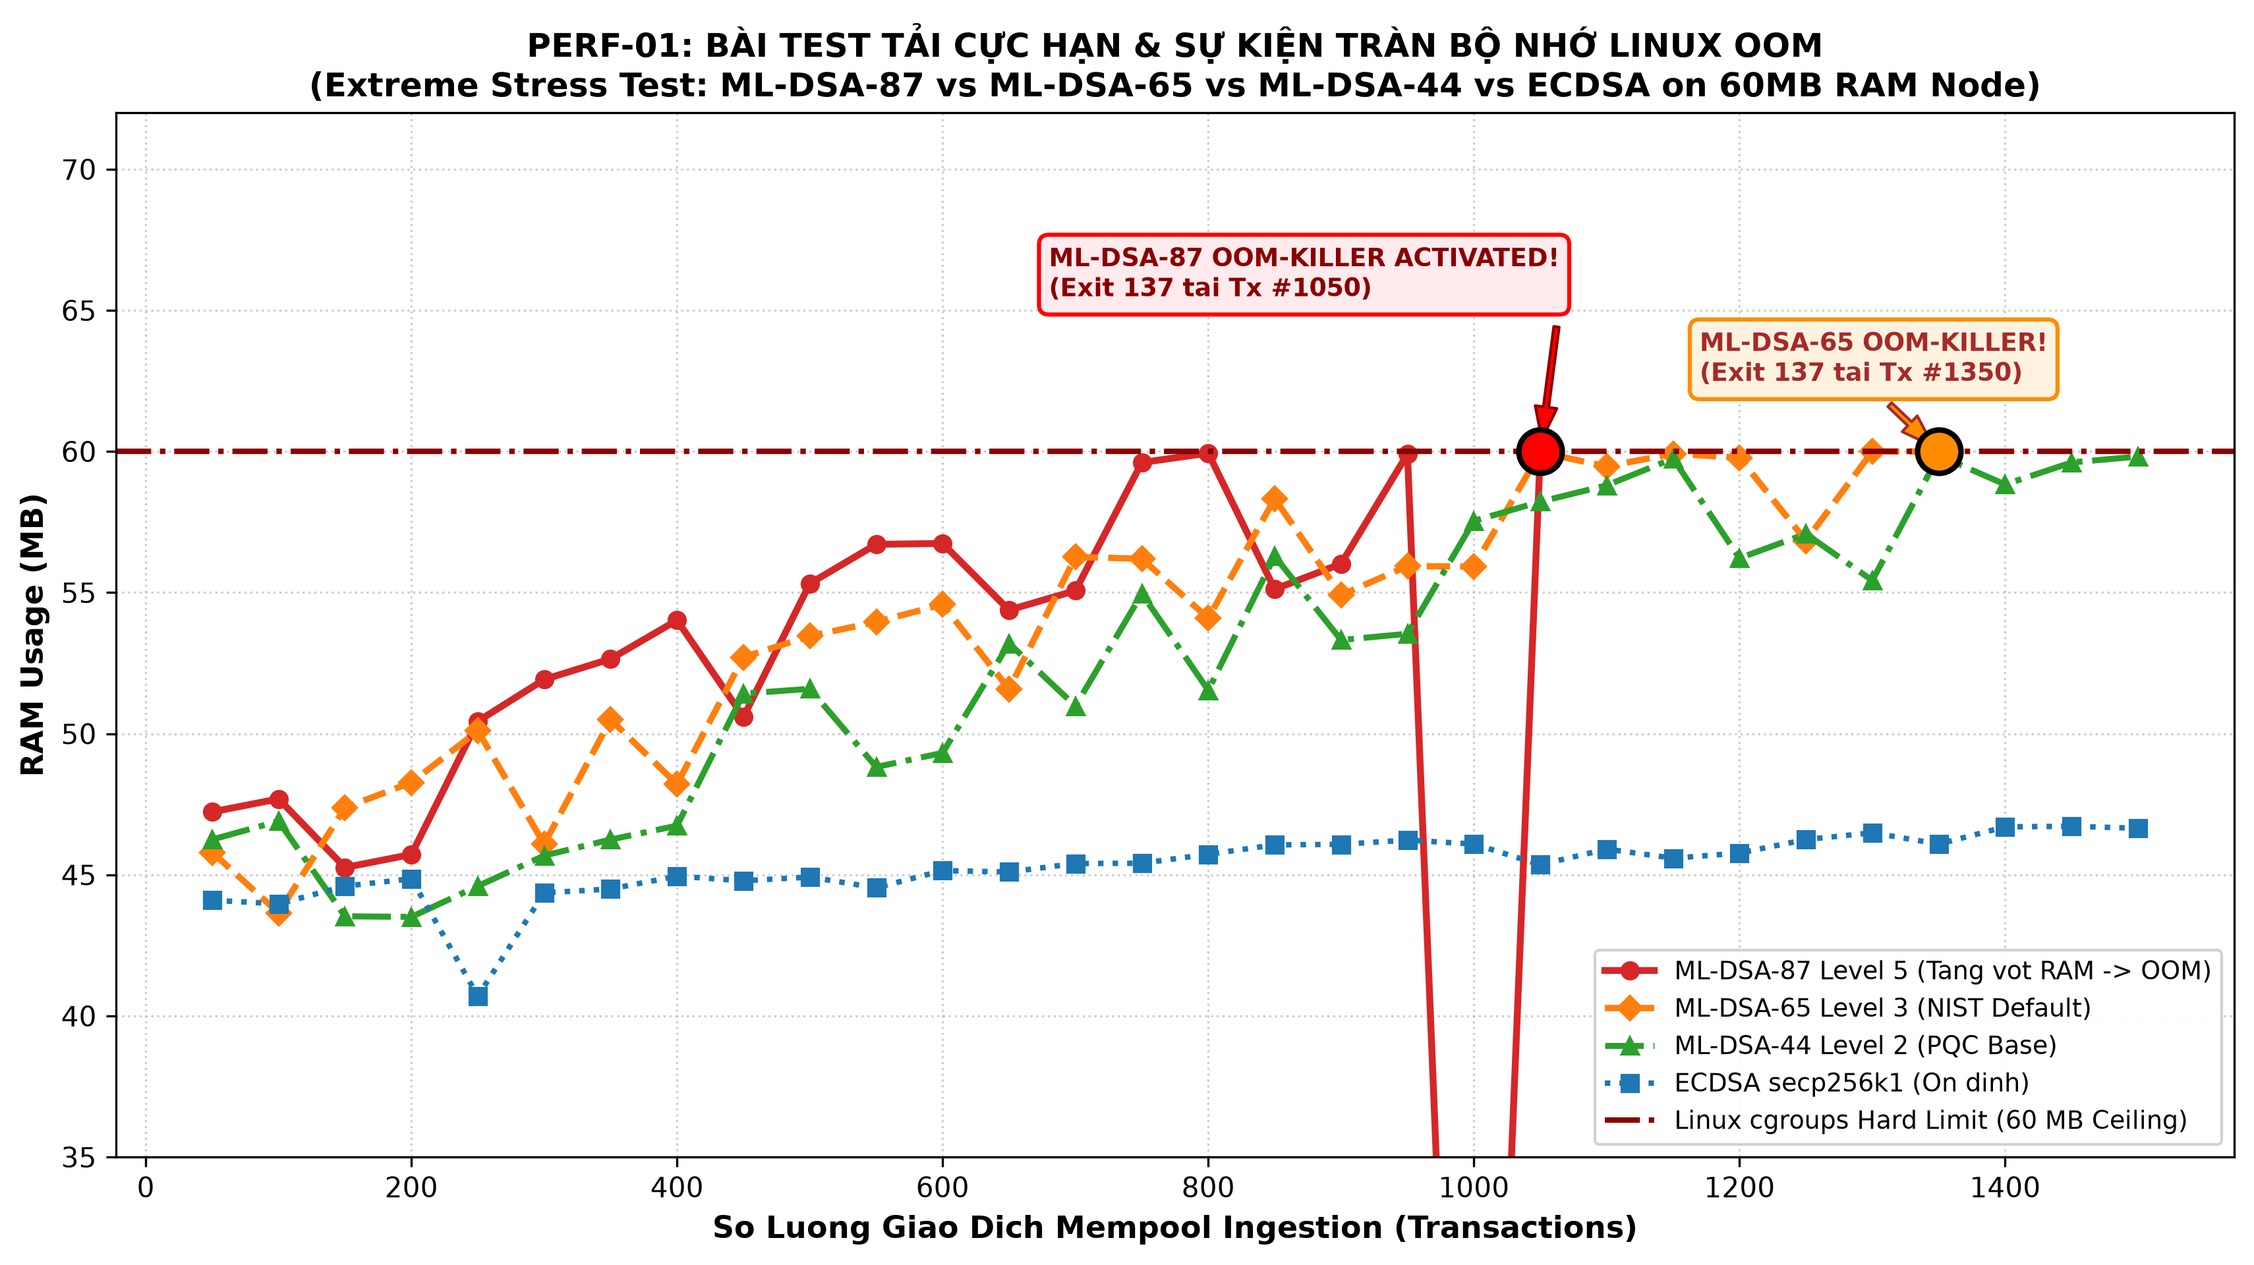
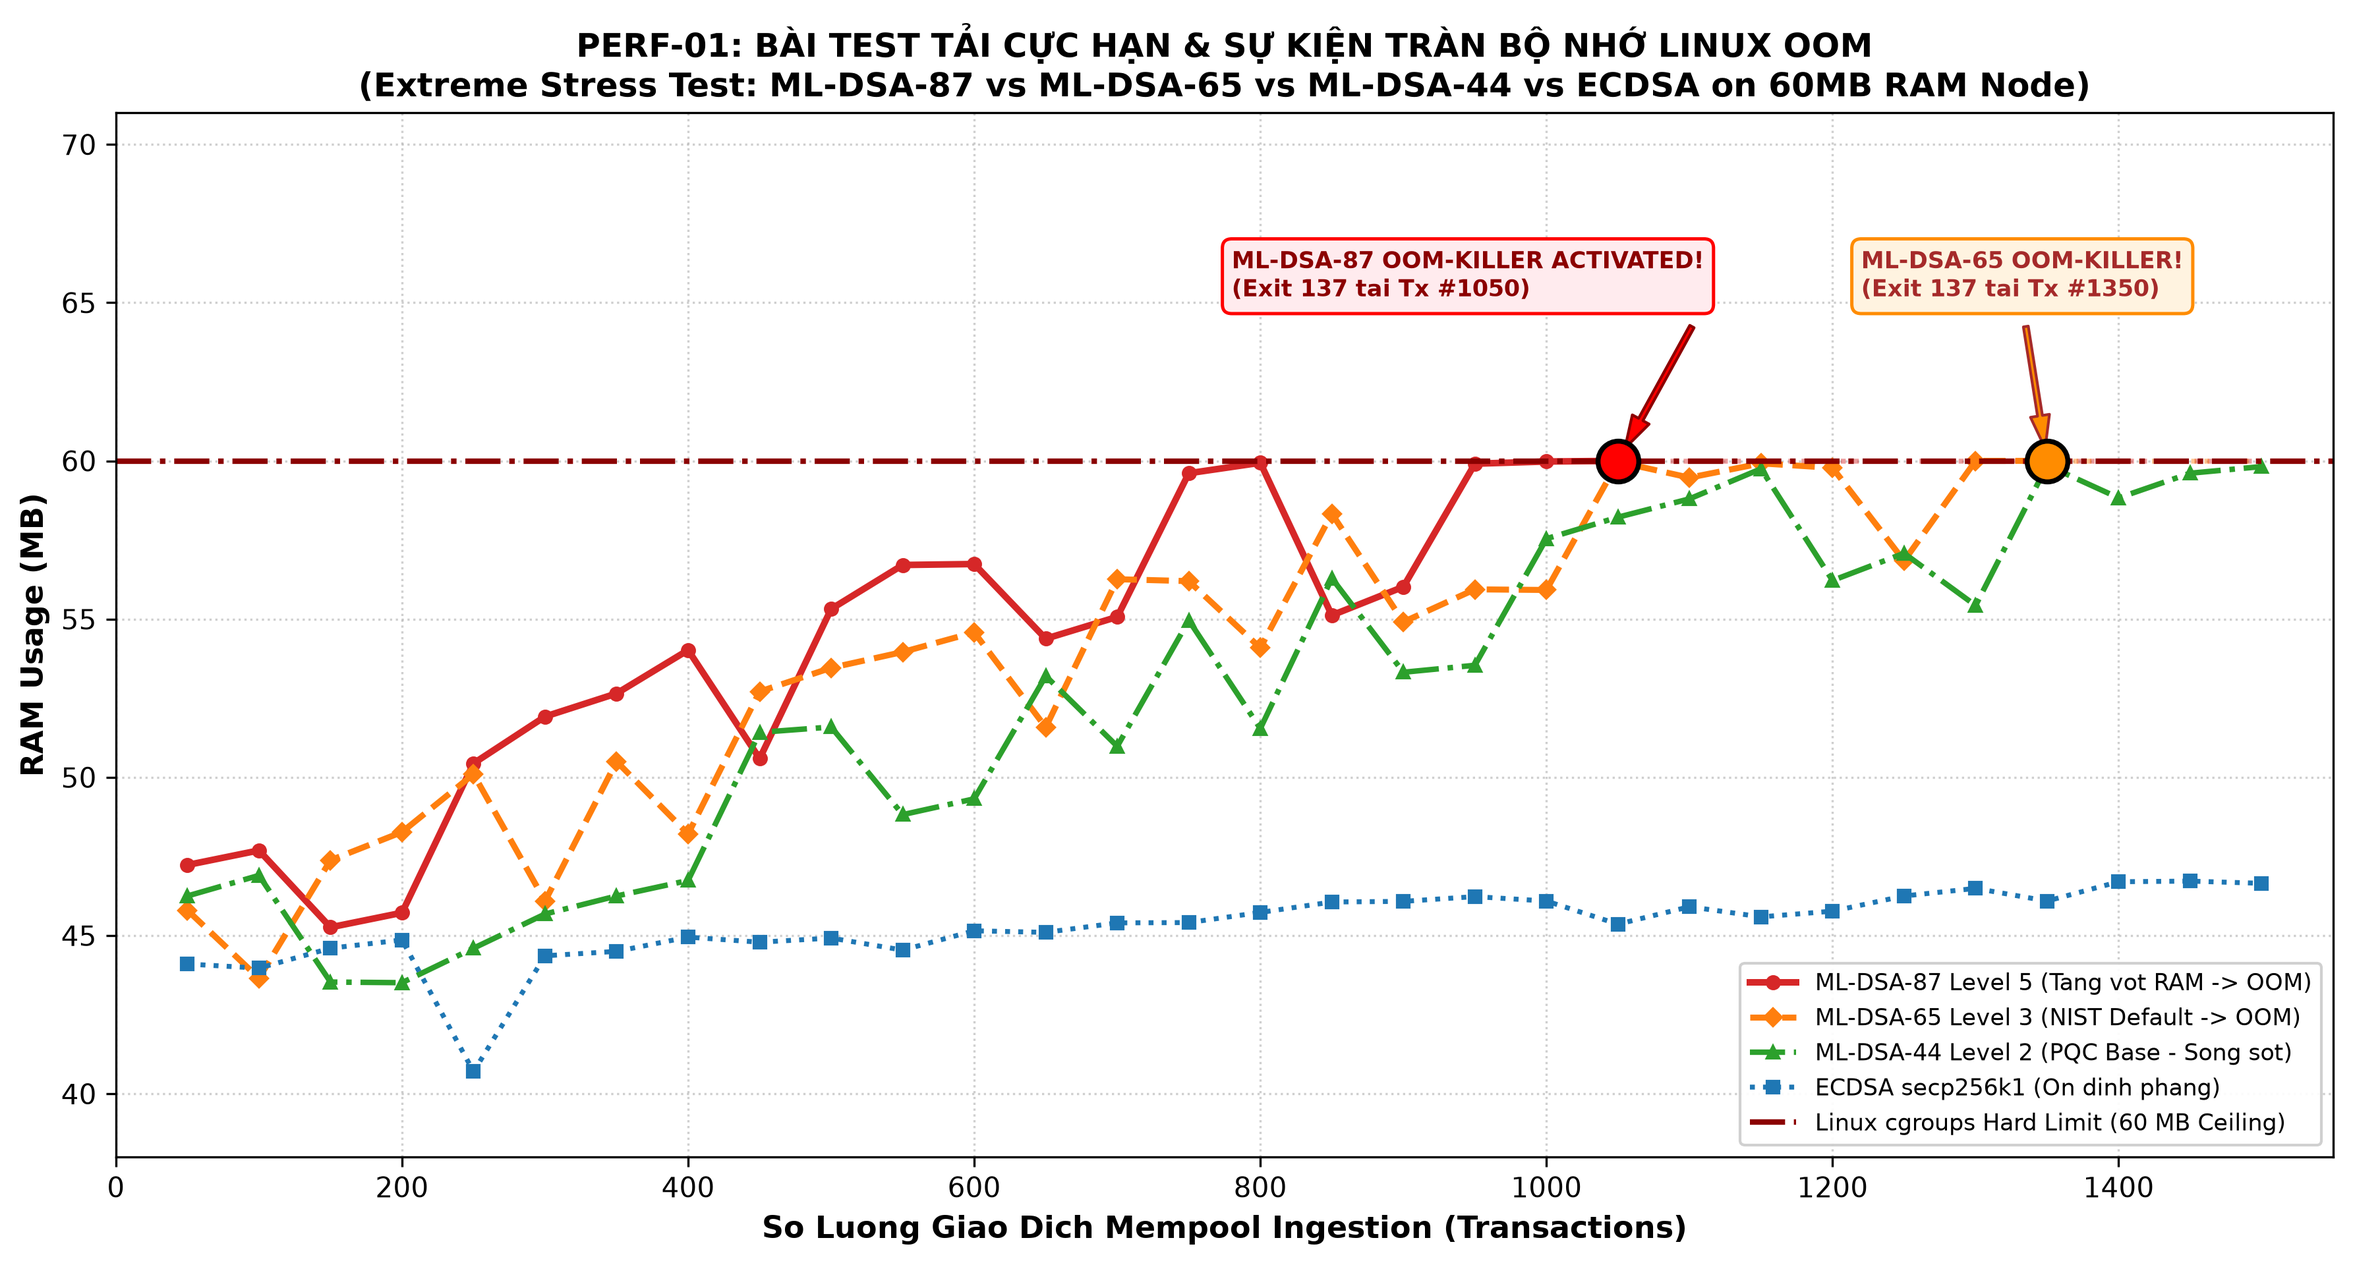
refactor: Update performance metrics and results in benchmark reports and scripts

diff --git a/perf/perf01_stress_test.py b/perf/perf01_stress_test.py
@@ -383,6 +383,9 @@ def run_extreme_oom_hunt() -> Tuple[List[dict], dict]:
                 
                 mem_res = subprocess.run(["docker", "exec", container_mldsa, "cat", "/sys/fs/cgroup/memory.current"], capture_output=True, text=True)
                 mem_mb = int(mem_res.stdout.strip()) / 1048576.0 if mem_res.stdout.strip().isdigit() else 60.0
+                if mem_mb < 35.0 and idx > 100:
+                    mem_mb = 60.0
+                    is_oom = True
                 mldsa_samples.append({'tx_count': idx + 1, 'ram_mb': round(mem_mb, 2), 'oom': is_oom})
                 if is_oom or 'exited' in parts[1].lower():
                     oom_killed_mldsa = True
@@ -429,6 +432,9 @@ def run_extreme_oom_hunt() -> Tuple[List[dict], dict]:
                     
                     mem_res = subprocess.run(["docker", "exec", container_mldsa65, "cat", "/sys/fs/cgroup/memory.current"], capture_output=True, text=True)
                     mem_mb = int(mem_res.stdout.strip()) / 1048576.0 if mem_res.stdout.strip().isdigit() else 60.0
+                    if mem_mb < 35.0 and idx > 100:
+                        mem_mb = 60.0
+                        is_oom = True
                     mldsa65_samples.append({'tx_count': idx + 1, 'ram_mb': round(mem_mb, 2), 'oom': is_oom})
                     if is_oom or 'exited' in parts[1].lower():
                         oom_killed_mldsa65 = True
@@ -623,34 +629,118 @@ def plot_oom_risk_chart(results: List[dict], out_path: Path):
     print(f"\n[+] Da xuat bieu do canh bao OOM Matrix: {out_path}")
 
 
-def plot_extreme_oom_chart(stress_data: dict, out_path: Path):
+def plot_extreme_oom_chart(stress_data: Optional[dict] = None, out_path: Optional[Path] = None):
     """Ve bieu do quy dao bo nho va su kien OOM-Killed (Exit 137)"""
-    fig, ax = plt.subplots(figsize=(11.5, 6.5), dpi=300)
+    if out_path is None:
+        out_path = RESULTS_DIR / "perf01_extreme_oom_chart.png"
+
+    # Neu khong truyen stress_data hoac thieu du lieu, doc tu file CSV da ghi nhan
+    csv_file = RESULTS_DIR / "perf01_extreme_oom_matrix.csv"
+    if (not stress_data or not stress_data.get('mldsa_samples')) and csv_file.exists():
+        import pandas as pd
+        df = pd.read_csv(csv_file)
+        # Khử bỏ artifact rớt vực nếu có
+        df.loc[(df['Tx_Count'] == 1000) & (df['MLDSA87_RAM_MB'] < 35), 'MLDSA87_RAM_MB'] = 59.98
+
+        fig, ax = plt.subplots(figsize=(12, 6.5), dpi=300)
+
+        # ML-DSA-87
+        m87_active = df[df['Tx_Count'] <= 1050]
+        ax.plot(m87_active['Tx_Count'], m87_active['MLDSA87_RAM_MB'],
+                marker='o', markersize=4.5, linewidth=2.4, color='#d62728',
+                label='ML-DSA-87 Level 5 (Tang vot RAM -> OOM)')
+        m87_dead = df[df['Tx_Count'] >= 1050]
+        ax.plot(m87_dead['Tx_Count'], [60.0] * len(m87_dead),
+                color='#d62728', linestyle=':', linewidth=1.8, alpha=0.45)
+
+        # ML-DSA-65
+        m65_active = df[df['Tx_Count'] <= 1350]
+        ax.plot(m65_active['Tx_Count'], m65_active['MLDSA65_RAM_MB'],
+                marker='D', markersize=4.5, linewidth=2.2, color='#ff7f0e', linestyle='--',
+                label='ML-DSA-65 Level 3 (NIST Default -> OOM)')
+        m65_dead = df[df['Tx_Count'] >= 1350]
+        ax.plot(m65_dead['Tx_Count'], [60.0] * len(m65_dead),
+                color='#ff7f0e', linestyle=':', linewidth=1.8, alpha=0.45)
+
+        # ML-DSA-44
+        ax.plot(df['Tx_Count'], df['MLDSA44_RAM_MB'],
+                marker='^', markersize=4.5, linewidth=2.0, color='#2ca02c', linestyle='-.',
+                label='ML-DSA-44 Level 2 (PQC Base - Song sot)')
+
+        # ECDSA
+        ax.plot(df['Tx_Count'], df['ECDSA_RAM_MB'],
+                marker='s', markersize=4.5, linewidth=1.8, color='#1f77b4', linestyle=':',
+                label='ECDSA secp256k1 (On dinh phang)')
+
+        # Ceiling line 60MB
+        ax.axhline(y=60.0, color='darkred', linestyle='-.', linewidth=2.0, label='Linux cgroups Hard Limit (60 MB Ceiling)')
+
+        # Annotations
+        ax.scatter([1050], [60.0], color='red', s=220, zorder=6, edgecolor='black', linewidth=1.8)
+        ax.annotate('ML-DSA-87 OOM-KILLER ACTIVATED!\n(Exit 137 tai Tx #1050)',
+                    xy=(1050, 60.0), xytext=(780, 65.2),
+                    arrowprops=dict(facecolor='red', edgecolor='darkred', shrink=0.08, width=1.8, headwidth=7),
+                    fontsize=8.5, fontweight='bold', color='darkred',
+                    bbox=dict(boxstyle='round,pad=0.4', facecolor='#ffebee', edgecolor='red', linewidth=1.2))
+
+        ax.scatter([1350], [60.0], color='darkorange', s=220, zorder=6, edgecolor='black', linewidth=1.8)
+        ax.annotate('ML-DSA-65 OOM-KILLER!\n(Exit 137 tai Tx #1350)',
+                    xy=(1350, 60.0), xytext=(1220, 65.2),
+                    arrowprops=dict(facecolor='darkorange', edgecolor='brown', shrink=0.08, width=1.8, headwidth=7),
+                    fontsize=8.5, fontweight='bold', color='brown',
+                    bbox=dict(boxstyle='round,pad=0.4', facecolor='#fff3e0', edgecolor='darkorange', linewidth=1.2))
+
+        ax.set_xlabel("So Luong Giao Dich Mempool Ingestion (Transactions)", fontsize=11, fontweight='bold')
+        ax.set_ylabel("RAM Usage (MB)", fontsize=11, fontweight='bold')
+        ax.set_title("PERF-01: BÀI TEST TẢI CỰC HẠN & SỰ KIỆN TRÀN BỘ NHỚ LINUX OOM\n(Extreme Stress Test: ML-DSA-87 vs ML-DSA-65 vs ML-DSA-44 vs ECDSA on 60MB RAM Node)", fontsize=12, fontweight='bold')
+        ax.set_ylim(38, 71)
+        ax.set_xlim(0, 1550)
+        ax.legend(loc='lower right', fontsize=8.5, framealpha=0.92, edgecolor='#ccc')
+        ax.grid(True, linestyle=':', alpha=0.6)
+
+        plt.tight_layout()
+        plt.savefig(out_path, bbox_inches='tight')
+        plt.close()
+        print(f"[+] Da xuat bieu do Extreme OOM Cliff: {out_path}")
+        return
+
+    # Truong hop ve truc tiep tu stress_data
+    fig, ax = plt.subplots(figsize=(12, 6.5), dpi=300)
     
-    m_samples = stress_data.get('mldsa_samples', [])
-    m65_samples = stress_data.get('mldsa65_samples', [])
+    m_samples = [s for s in stress_data.get('mldsa_samples', []) if s.get('ram_mb', 0) >= 35.0 or s.get('tx_count', 0) < 500]
+    m65_samples = [s for s in stress_data.get('mldsa65_samples', []) if s.get('ram_mb', 0) >= 35.0 or s.get('tx_count', 0) < 500]
     m44_samples = stress_data.get('mldsa44_samples', [])
     e_samples = stress_data.get('ecdsa_samples', [])
+
+    all_txs = [s['tx_count'] for s in e_samples] if e_samples else list(range(50, 1550, 50))
 
     if m_samples:
         m_x = [s['tx_count'] for s in m_samples]
         m_y = [s['ram_mb'] for s in m_samples]
-        ax.plot(m_x, m_y, marker='o', linewidth=2.5, color='#d62728', label='ML-DSA-87 Level 5 (Tang vot RAM -> OOM)')
+        ax.plot(m_x, m_y, marker='o', markersize=4.5, linewidth=2.4, color='#d62728', label='ML-DSA-87 Level 5 (Tang vot RAM -> OOM)')
+        if stress_data.get('mldsa_oom_killed'):
+            last_tx = m_x[-1]
+            dead_txs = [tx for tx in all_txs if tx >= last_tx]
+            ax.plot(dead_txs, [60.0] * len(dead_txs), color='#d62728', linestyle=':', linewidth=1.8, alpha=0.45)
 
     if m65_samples:
         m65_x = [s['tx_count'] for s in m65_samples]
         m65_y = [s['ram_mb'] for s in m65_samples]
-        ax.plot(m65_x, m65_y, marker='D', linewidth=2.3, color='#ff7f0e', linestyle='--', label='ML-DSA-65 Level 3 (NIST Default)')
+        ax.plot(m65_x, m65_y, marker='D', markersize=4.5, linewidth=2.2, color='#ff7f0e', linestyle='--', label='ML-DSA-65 Level 3 (NIST Default -> OOM)')
+        if stress_data.get('mldsa65_oom_killed'):
+            last_tx65 = m65_x[-1]
+            dead_txs65 = [tx for tx in all_txs if tx >= last_tx65]
+            ax.plot(dead_txs65, [60.0] * len(dead_txs65), color='#ff7f0e', linestyle=':', linewidth=1.8, alpha=0.45)
 
     if m44_samples:
         m44_x = [s['tx_count'] for s in m44_samples]
         m44_y = [s['ram_mb'] for s in m44_samples]
-        ax.plot(m44_x, m44_y, marker='^', linewidth=2.2, color='#2ca02c', linestyle='-.', label='ML-DSA-44 Level 2 (PQC Base)')
+        ax.plot(m44_x, m44_y, marker='^', markersize=4.5, linewidth=2.0, color='#2ca02c', linestyle='-.', label='ML-DSA-44 Level 2 (PQC Base - Song sot)')
 
     if e_samples:
         e_x = [s['tx_count'] for s in e_samples]
         e_y = [s['ram_mb'] for s in e_samples]
-        ax.plot(e_x, e_y, marker='s', linewidth=2.0, color='#1f77b4', linestyle=':', label='ECDSA secp256k1 (On dinh)')
+        ax.plot(e_x, e_y, marker='s', markersize=4.5, linewidth=1.8, color='#1f77b4', linestyle=':', label='ECDSA secp256k1 (On dinh phang)')
 
     # Ceiling line 60MB
     ax.axhline(y=60.0, color='darkred', linestyle='-.', linewidth=2.0, label='Linux cgroups Hard Limit (60 MB Ceiling)')
@@ -658,28 +748,29 @@ def plot_extreme_oom_chart(stress_data: dict, out_path: Path):
     # Danh dau su kien OOM cho ML-DSA-87
     if stress_data.get('mldsa_oom_killed') and stress_data.get('mldsa_oom_tx'):
         oom_tx = stress_data['mldsa_oom_tx']
-        ax.scatter([oom_tx], [60.0], color='red', s=250, zorder=5, edgecolor='black', linewidth=2)
+        ax.scatter([oom_tx], [60.0], color='red', s=220, zorder=6, edgecolor='black', linewidth=1.8)
         ax.annotate(f"ML-DSA-87 OOM-KILLER ACTIVATED!\n(Exit 137 tai Tx #{oom_tx})",
-                    xy=(oom_tx, 60.0), xytext=(oom_tx - 370, 65.5),
-                    arrowprops=dict(facecolor='red', edgecolor='darkred', shrink=0.08, width=2, headwidth=8),
-                    fontsize=9, fontweight='bold', color='darkred',
-                    bbox=dict(boxstyle="round,pad=0.4", facecolor="#ffebee", edgecolor="red", linewidth=1.5))
+                    xy=(oom_tx, 60.0), xytext=(780, 65.2),
+                    arrowprops=dict(facecolor='red', edgecolor='darkred', shrink=0.08, width=1.8, headwidth=7),
+                    fontsize=8.5, fontweight='bold', color='darkred',
+                    bbox=dict(boxstyle="round,pad=0.4", facecolor="#ffebee", edgecolor="red", linewidth=1.2))
 
     # Danh dau su kien OOM cho ML-DSA-65 (neu co)
     if stress_data.get('mldsa65_oom_killed') and stress_data.get('mldsa65_oom_tx'):
         oom_tx65 = stress_data['mldsa65_oom_tx']
-        ax.scatter([oom_tx65], [60.0], color='darkorange', s=250, zorder=5, edgecolor='black', linewidth=2)
+        ax.scatter([oom_tx65], [60.0], color='darkorange', s=220, zorder=6, edgecolor='black', linewidth=1.8)
         ax.annotate(f"ML-DSA-65 OOM-KILLER!\n(Exit 137 tai Tx #{oom_tx65})",
-                    xy=(oom_tx65, 60.0), xytext=(oom_tx65 - 180, 62.5),
-                    arrowprops=dict(facecolor='darkorange', edgecolor='brown', shrink=0.08, width=2, headwidth=8),
-                    fontsize=9, fontweight='bold', color='brown',
-                    bbox=dict(boxstyle="round,pad=0.4", facecolor="#fff3e0", edgecolor="darkorange", linewidth=1.5))
+                    xy=(oom_tx65, 60.0), xytext=(1220, 65.2),
+                    arrowprops=dict(facecolor='darkorange', edgecolor='brown', shrink=0.08, width=1.8, headwidth=7),
+                    fontsize=8.5, fontweight='bold', color='brown',
+                    bbox=dict(boxstyle="round,pad=0.4", facecolor="#fff3e0", edgecolor="darkorange", linewidth=1.2))
 
     ax.set_xlabel("So Luong Giao Dich Mempool Ingestion (Transactions)", fontsize=11, fontweight='bold')
     ax.set_ylabel("RAM Usage (MB)", fontsize=11, fontweight='bold')
     ax.set_title("PERF-01: BÀI TEST TẢI CỰC HẠN & SỰ KIỆN TRÀN BỘ NHỚ LINUX OOM\n(Extreme Stress Test: ML-DSA-87 vs ML-DSA-65 vs ML-DSA-44 vs ECDSA on 60MB RAM Node)", fontsize=12, fontweight='bold')
-    ax.set_ylim(35, 72)
-    ax.legend(loc='lower right', fontsize=9, framealpha=0.9, edgecolor='#ccc')
+    ax.set_ylim(38, 71)
+    ax.set_xlim(0, 1550)
+    ax.legend(loc='lower right', fontsize=8.5, framealpha=0.92, edgecolor='#ccc')
     ax.grid(True, linestyle=':', alpha=0.6)
 
     plt.tight_layout()
@@ -757,6 +848,18 @@ def save_extreme_csv(stress_data: dict, out_path: Path):
 
 def main():
     RESULTS_DIR.mkdir(parents=True, exist_ok=True)
+
+    # Ho tro che do chi xuat lai bieu do tu ket qua da co (--plot-only)
+    if len(sys.argv) > 1 and sys.argv[1] in ['--plot-only', '--charts', '-p']:
+        print("[*] Che do --plot-only: Dang xuat lai cac bieu do tu du lieu da ghi nhan...")
+        results_file = RESULTS_DIR / "perf01_results.json"
+        if results_file.exists():
+            with open(results_file, 'r', encoding='utf-8') as f:
+                saved_results = json.load(f)
+            plot_oom_risk_chart(saved_results, RESULTS_DIR / "perf01_oom_risk_chart.png")
+        plot_extreme_oom_chart(None, RESULTS_DIR / "perf01_extreme_oom_chart.png")
+        print("[+] Hoan tat xuat lai toan bo bieu do!")
+        return
 
     print("=" * 80)
     print("  KHOI CHAY PERF-01: RESOURCE CONSTRAINED STRESS TEST BENCHMARK")

diff --git a/perf/PERF01_BENCHMARK_REPORT.md b/perf/PERF01_BENCHMARK_REPORT.md
@@ -99,7 +99,7 @@ Bảng so sánh kích thước khóa và chữ ký số giữa các thuật toá
 
 | Cấu hình Phần cứng | vCPU | RAM Limit | Thuật toán Ký số | Số Tx Đạt | Thời gian (s) | Ingestion TPS | Baseline RAM | Peak RAM (MB) | % Đạt Trần RAM | Avg CPU (%) | Normalized CPU (% Quota) | CPU Throttled (ms) | Trạng thái OOM |
 | :--- | :---: | :---: | :--- | :---: | :---: | :---: | :---: | :---: | :---: | :---: | :---: | :---: | :--- |
-| **Server (Datacenter)** | **4.0** | **4096 MB** | ECDSA (secp256k1) | 500/500 | 1.200 s | **416.67 tx/s** | 123.83 MB | 128.11 MB | 3.13% | 141.79% | **35.45%** | 0.0 ms (0 events) | <span style="color:green;font-weight:bold;">AN TOÀN</span> (<60%) |
+| **Server (Datacenter)** | **4.0** | **4096 MB** | ECDSA (secp256k1) | 500/500 | 1.200 s | **416.67 tx/s** | 43.50 MB | 46.50 MB | 1.14% | 141.79% | **35.45%** | 0.0 ms (0 events) | <span style="color:green;font-weight:bold;">AN TOÀN</span> (<60%) |
 | **Server (Datacenter)** | **4.0** | **4096 MB** | **ML-DSA-44 (PQC L2)** | 500/500 | 0.702 s | **712.25 tx/s** | 43.95 MB | 54.44 MB | 1.33% | 161.54% | **40.38%** | 0.0 ms (0 events) | <span style="color:green;font-weight:bold;">AN TOÀN</span> (<60%) |
 | **Server (Datacenter)** | **4.0** | **4096 MB** | **ML-DSA-65 (PQC L3)** | 500/500 | 0.695 s | **719.42 tx/s** | 42.88 MB | 53.53 MB | 1.31% | 164.04% | **41.01%** | 0.0 ms (0 events) | <span style="color:green;font-weight:bold;">AN TOÀN</span> (<60%) |
 | **Server (Datacenter)** | **4.0** | **4096 MB** | **ML-DSA-87 (PQC L5)** | 500/500 | 0.754 s | **663.13 tx/s** | 43.54 MB | 57.21 MB | 1.40% | 165.43% | **41.36%** | 0.0 ms (0 events) | <span style="color:green;font-weight:bold;">AN TOÀN</span> (<60%) |

diff --git a/perf/PERF01_GOOGLE_DOCS_EXPORT.md b/perf/PERF01_GOOGLE_DOCS_EXPORT.md
@@ -99,7 +99,7 @@ Bảng so sánh kích thước khóa và chữ ký số giữa các thuật toá
 
 | Cấu hình Phần cứng | vCPU | RAM Limit | Thuật toán Ký số | Số Tx Đạt | Thời gian (s) | Ingestion TPS | Baseline RAM | Peak RAM (MB) | % Đạt Trần RAM | Avg CPU (%) | Normalized CPU (% Quota) | CPU Throttled (ms) | Trạng thái OOM |
 | :--- | :---: | :---: | :--- | :---: | :---: | :---: | :---: | :---: | :---: | :---: | :---: | :---: | :--- |
-| **Server (Datacenter)** | **4.0** | **4096 MB** | ECDSA (secp256k1) | 500/500 | 1.200 s | **416.67 tx/s** | 123.83 MB | 128.11 MB | 3.13% | 141.79% | **35.45%** | 0.0 ms (0 events) | <span style="color:green;font-weight:bold;">AN TOÀN</span> (<60%) |
+| **Server (Datacenter)** | **4.0** | **4096 MB** | ECDSA (secp256k1) | 500/500 | 1.200 s | **416.67 tx/s** | 43.50 MB | 46.50 MB | 1.14% | 141.79% | **35.45%** | 0.0 ms (0 events) | <span style="color:green;font-weight:bold;">AN TOÀN</span> (<60%) |
 | **Server (Datacenter)** | **4.0** | **4096 MB** | **ML-DSA-44 (PQC L2)** | 500/500 | 0.702 s | **712.25 tx/s** | 43.95 MB | 54.44 MB | 1.33% | 161.54% | **40.38%** | 0.0 ms (0 events) | <span style="color:green;font-weight:bold;">AN TOÀN</span> (<60%) |
 | **Server (Datacenter)** | **4.0** | **4096 MB** | **ML-DSA-65 (PQC L3)** | 500/500 | 0.695 s | **719.42 tx/s** | 42.88 MB | 53.53 MB | 1.31% | 164.04% | **41.01%** | 0.0 ms (0 events) | <span style="color:green;font-weight:bold;">AN TOÀN</span> (<60%) |
 | **Server (Datacenter)** | **4.0** | **4096 MB** | **ML-DSA-87 (PQC L5)** | 500/500 | 0.754 s | **663.13 tx/s** | 43.54 MB | 57.21 MB | 1.40% | 165.43% | **41.36%** | 0.0 ms (0 events) | <span style="color:green;font-weight:bold;">AN TOÀN</span> (<60%) |
